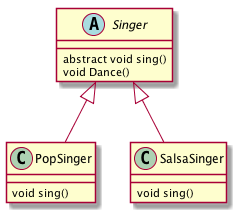
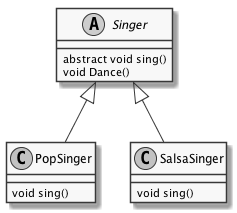
More bookmarks and monochrome plantuml sample

diff --git a/index.html b/index.html
@@ -4,7 +4,7 @@
 <html xmlns="http://www.w3.org/1999/xhtml" lang="en" xml:lang="en">
 <head>
 <title>Álvaro Ramírez</title>
-<!-- 2015-10-05 Mon 23:52 -->
+<!-- 2015-10-06 Tue 22:46 -->
 <meta  http-equiv="Content-Type" content="text/html;charset=utf-8" />
 <meta  name="generator" content="Org-mode" />
 <meta  name="author" content="Alvaro Ramirez" />
@@ -2595,6 +2595,7 @@ Played with <a href="http://plantuml.sourceforge.net/PlantUML_Language_Reference
     void Dance()
   }
 
+  skinparam monochrome true
   Singer &lt;|-- PopSinger
   Singer &lt;|-- SalsaSinger
 
@@ -6462,10 +6463,9 @@ Bonus: See <a href="http://codefork.com/blog/index.php/2011/11/27/getting-the-so
 </ul>
 </div>
 </div>
-<div id="outline-container-html5-bookmarks" class="outline-2">
-<h2 id="html5-bookmarks"><a id="sec-180" name="sec-180"></a><span class="timestamp-wrapper"><span class="timestamp">[2014-07-14 Mon]</span></span> <a href="#html5-bookmarks">#</a> HTML5 bookmarks</h2>
-<div class="outline-text-2" id="text-html5-bookmarks">
-<br><span class="modified-timestamp">  <em>[2015-09-19 Sat]  updated  </em></span>
+<div id="outline-container-javascript-bookmarks" class="outline-2">
+<h2 id="javascript-bookmarks"><a id="sec-180" name="sec-180"></a><span class="timestamp-wrapper"><span class="timestamp">[2014-07-14 Mon]</span></span> <a href="#javascript-bookmarks">#</a> Javascript bookmarks</h2>
+<div class="outline-text-2" id="text-javascript-bookmarks">
 <ul class="org-ul">
 <li><a href="https://github.com/ivopetkov/responsively-lazy">A better way to lazy load responsive images</a>.
 </li>
@@ -6475,37 +6475,47 @@ Bonus: See <a href="http://codefork.com/blog/index.php/2011/11/27/getting-the-so
 </li>
 <li><a href="http://www.helloerik.com/the-subtle-magic-behind-why-the-bootstrap-3-grid-works">Bootstrap 3 grid</a>.
 </li>
-<li><a href="http://blog.chromium.org/2014/06/web-fundamentals-and-web-starter-kit.html">Chromium's web fundamentals and Web Starter Kit</a>.
-</li>
 <li><a href="https://slides.com/concise/js/fullscreen#/">Concise JavaScript intro</a>.
 </li>
-<li><a href="http://cssguidelin.es">CSS style guide</a>.
-</li>
 <li><a href="http://dynamicsjs.com/">Dynamics.js: JavaScript library to create physics-based CSS animations</a>.
+</li>
+<li><a href="http://eloquentjavascript.net">Eloquent JavaScript (Book)</a>.
 </li>
 <li><a href="http://famous.org/">Famous Javascript library for animations &amp; interfaces</a>.
 </li>
 <li><a href="http://www.sencha.com/blog/hidden-gems-in-chrome-developer-tools/">Hidden gems in Chrome Developer Tools</a>.
 </li>
-<li><a href="http://blog.ustunozgur.com/javascript/programming/books/videos/2015/06/17/how_to_be_a_great_javascript_software_developer.html">How to Become a Great JavaScript Developer</a>.
-</li>
-<li><a href="https://news.ycombinator.com/item?id=9405284">howtocenterincss.com (HN)</a>.
-</li>
-<li><a href="http://howtocenterincss.com/">howtocenterincss.com</a>.
-</li>
 <li><a href="https://blog.famous.org/introducing-the-famous-framework/">Introducing the Famous framework</a>.
 </li>
-<li><a href="https://developer.mozilla.org/en-US/Learn">Learning the Web (mozilla.org)</a>.
+<li><a href="http://www.larryullman.com/books/modern-javascript-develop-and-design/table-of-contents/">Modern JavaScript: Develop and Design (Book)</a>.
 </li>
-<li><a href="http://www.larryullman.com/books/modern-javascript-develop-and-design/table-of-contents/">Modern JavaScript: Develop and Design (book)</a>.
-</li>
-<li><a href="https://github.com/arscan/pleaserotate.js">pleaserotate.js</a>
+<li><a href="https://github.com/arscan/pleaserotate.js">Pleaserotate.js</a>
 </li>
 <li><a href="http://pathgather.github.io/please-wait/">PleaseWait.js</a>
 </li>
-<li><a href="https://philipwalton.github.io/solved-by-flexbox/">Solved by Flexbox</a>.
-</li>
 <li><a href="http://jonobr1.github.io/two.js">Two.js is a two-dimensional drawing api geared towards modern web browsers</a>.
+</li>
+</ul>
+</div>
+</div>
+<div id="outline-container-html5-bookmarks" class="outline-2">
+<h2 id="html5-bookmarks"><a id="sec-181" name="sec-181"></a><span class="timestamp-wrapper"><span class="timestamp">[2014-07-14 Mon]</span></span> <a href="#html5-bookmarks">#</a> HTML5 bookmarks</h2>
+<div class="outline-text-2" id="text-html5-bookmarks">
+<br><span class="modified-timestamp">  <em>[2015-09-19 Sat]  updated  </em></span>
+<ul class="org-ul">
+<li><a href="http://blog.chromium.org/2014/06/web-fundamentals-and-web-starter-kit.html">Chromium's web fundamentals and Web Starter Kit</a>.
+</li>
+<li><a href="http://cssguidelin.es">CSS style guide</a>.
+</li>
+<li><a href="http://blog.ustunozgur.com/javascript/programming/books/videos/2015/06/17/how_to_be_a_great_javascript_software_developer.html">How to Become a Great JavaScript Developer</a>.
+</li>
+<li><a href="https://news.ycombinator.com/item?id=9405284">Howtocenterincss.com (HN)</a>.
+</li>
+<li><a href="http://howtocenterincss.com/">Howtocenterincss.com</a>.
+</li>
+<li><a href="https://developer.mozilla.org/en-US/Learn">Learning the Web (mozilla.org)</a>.
+</li>
+<li><a href="https://philipwalton.github.io/solved-by-flexbox/">Solved by Flexbox</a>.
 </li>
 <li><a href="https://gist.github.com/paulirish/5d52fb081b3570c81e3a">What forces a layout / reflow</a>.
 </li>
@@ -6513,7 +6523,7 @@ Bonus: See <a href="http://codefork.com/blog/index.php/2011/11/27/getting-the-so
 </div>
 </div>
 <div id="outline-container-python-bookmarks" class="outline-2">
-<h2 id="python-bookmarks"><a id="sec-181" name="sec-181"></a><span class="timestamp-wrapper"><span class="timestamp">[2014-07-13 Sun]</span></span> <a href="#python-bookmarks">#</a> Python bookmarks</h2>
+<h2 id="python-bookmarks"><a id="sec-182" name="sec-182"></a><span class="timestamp-wrapper"><span class="timestamp">[2014-07-13 Sun]</span></span> <a href="#python-bookmarks">#</a> Python bookmarks</h2>
 <div class="outline-text-2" id="text-python-bookmarks">
 <br><span class="modified-timestamp">  <em>[2015-10-02 Fri]  updated  </em></span>
 <ul class="org-ul">
@@ -6555,7 +6565,7 @@ Bonus: See <a href="http://codefork.com/blog/index.php/2011/11/27/getting-the-so
 </div>
 </div>
 <div id="outline-container-development-bookmarks" class="outline-2">
-<h2 id="development-bookmarks"><a id="sec-182" name="sec-182"></a><span class="timestamp-wrapper"><span class="timestamp">[2014-07-13 Sun]</span></span> <a href="#development-bookmarks">#</a> Development bookmarks</h2>
+<h2 id="development-bookmarks"><a id="sec-183" name="sec-183"></a><span class="timestamp-wrapper"><span class="timestamp">[2014-07-13 Sun]</span></span> <a href="#development-bookmarks">#</a> Development bookmarks</h2>
 <div class="outline-text-2" id="text-development-bookmarks">
 <br><span class="modified-timestamp">  <em>[2015-09-18 Fri]  updated  </em></span>
 <ul class="org-ul">
@@ -6607,7 +6617,7 @@ Bonus: See <a href="http://codefork.com/blog/index.php/2011/11/27/getting-the-so
 </div>
 </div>
 <div id="outline-container-some-python-idioms" class="outline-2">
-<h2 id="some-python-idioms"><a id="sec-183" name="sec-183"></a><span class="timestamp-wrapper"><span class="timestamp">[2013-11-04 Mon]</span></span> <a href="#some-python-idioms">#</a> Some python idioms</h2>
+<h2 id="some-python-idioms"><a id="sec-184" name="sec-184"></a><span class="timestamp-wrapper"><span class="timestamp">[2013-11-04 Mon]</span></span> <a href="#some-python-idioms">#</a> Some python idioms</h2>
 <div class="outline-text-2" id="text-some-python-idioms">
 <ul class="org-ul">
 <li>Prefer double quotes if escaping single quotes.
